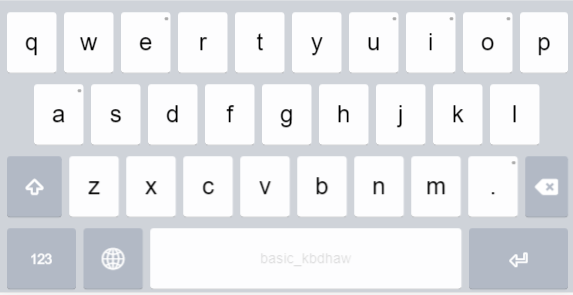
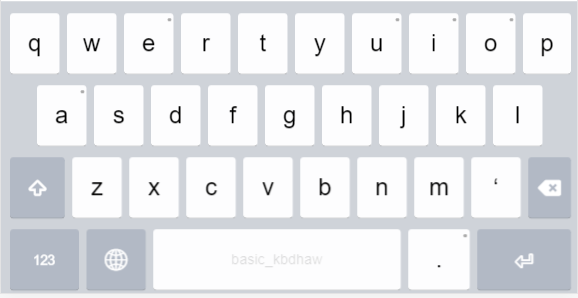
update touch layout, help and welcome

diff --git a/release/basic/basic_kbdhaw/source/welcome/welcome.htm b/release/basic/basic_kbdhaw/source/welcome/welcome.htm
@@ -19,6 +19,8 @@
 
 <h1>Keyboard Layout</h1>
 
+<p>This keyboard makes use of SHIFT+RALT keys which are set by default when Keyman is installed. To use this keyboard, you must go to <b>Configuration.../Hotkeys</b> and select the hotkey for "Switch Keyman Desktop Off". Either change the hotkey or turn it off. Do the same for "Open Keyboard Menu" and for "Open Language Switcher".</p>
+
 <h2>Desktop Layout</h2>
 <img src="desktop_layout.png" alt="Desktop Layout">
 <h2>Touch Layout</h2>

diff --git a/release/basic/basic_kbdhaw/source/help/basic_kbdhaw.php b/release/basic/basic_kbdhaw/source/help/basic_kbdhaw.php
@@ -15,6 +15,8 @@ Hawaiian Basic keyboard 1.0 is generated from template.
 </p>
 <br/>
 
+<p>This keyboard makes use of SHIFT+RALT keys which are set by default when Keyman is installed. To use this keyboard, you must go to <b>Configuration.../Hotkeys</b> and select the hotkey for "Switch Keyman Desktop Off". Either change the hotkey or turn it off. Do the same for "Open Keyboard Menu" and for "Open Language Switcher".</p>
+
 <h2>Desktop Keyboard Layout</h2>
 <div id='osk' data-states='default shift rightalt rightalt-shift'>
 </div>
